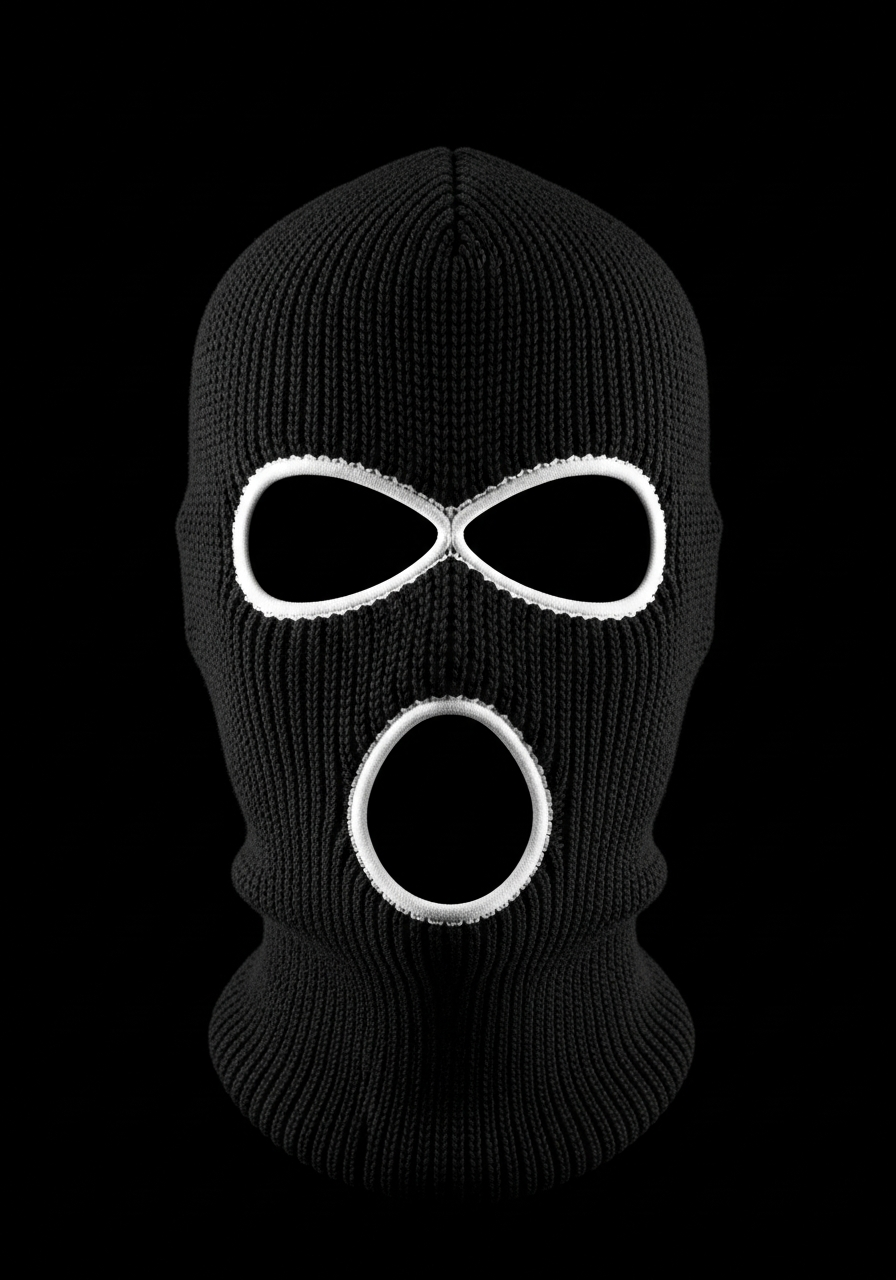
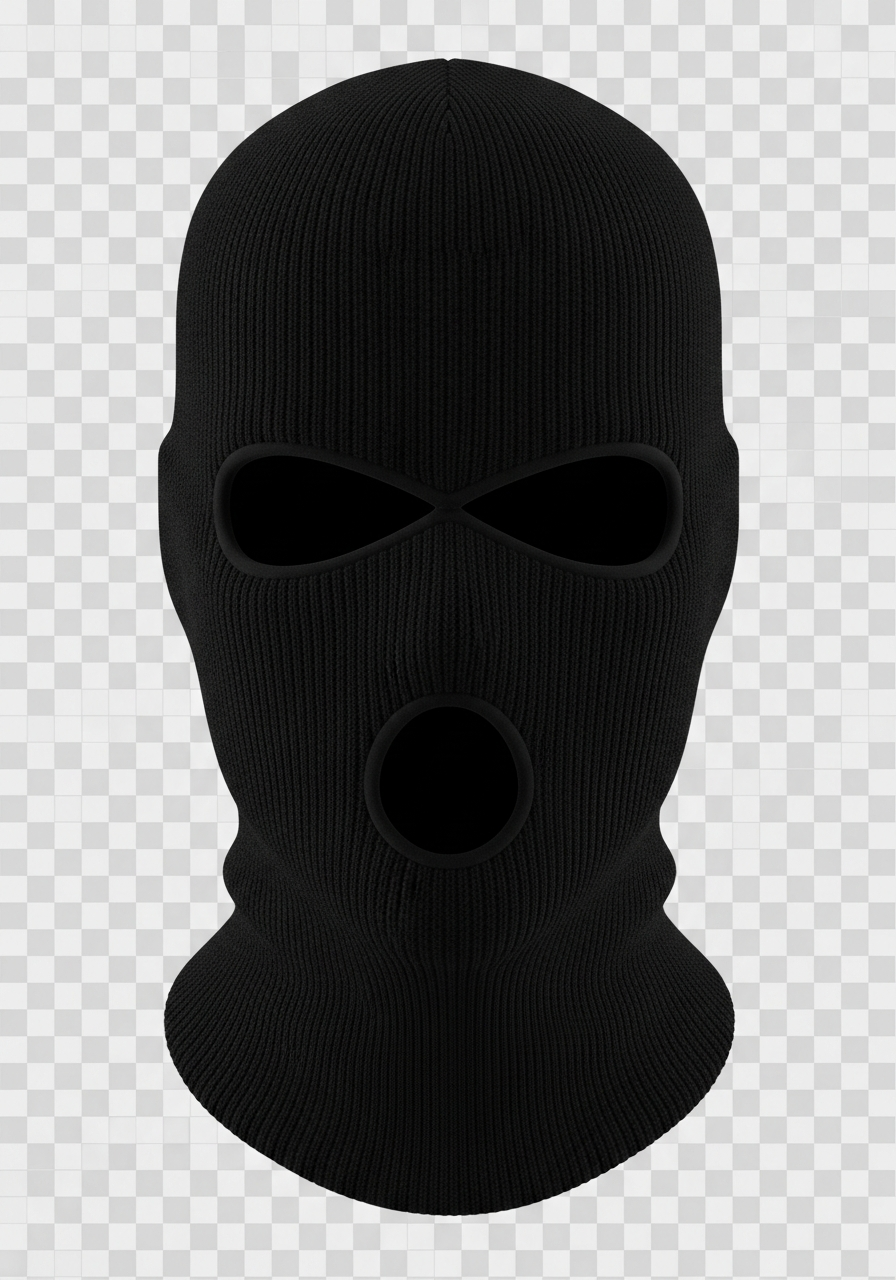
Improve AR filters with better proportioning and an opaque ski mask
Update AR filter rendering to use 'source-over' blend mode for the ski mask, making it opaque, and adjust scaling factors for all filters to improve face fitting.

Replit-Commit-Author: Agent
Replit-Commit-Session-Id: bb2b13c8-d9ab-4d72-9028-63e3fe84c47a
Replit-Commit-Checkpoint-Type: full_checkpoint
Replit-Commit-Event-Id: 98ca80ae-d9f9-422e-b6e9-1dc43fc0b701
Replit-Commit-Screenshot-Url: https://storage.googleapis.com/screenshot-production-us-central1/3f589d6a-16a0-4ee7-8d70-871b8ff5ffcc/bb2b13c8-d9ab-4d72-9028-63e3fe84c47a/F8LlbIX
Replit-Helium-Checkpoint-Created: true

diff --git a/js/ar-filters.js b/js/ar-filters.js
@@ -212,22 +212,22 @@ class ARFilterEngine {
 
         switch (this.activeFilter) {
             case 'ar-hiphop':
-                this._drawOverlayOnEyes(ctx, lm, w, h, 'ar-hiphop', { scaleW: 2.8, scaleH: 1.4, offsetY: 0 });
+                this._drawOverlayOnEyes(ctx, lm, w, h, 'ar-hiphop', { scaleW: 2.4, scaleH: 1.0, offsetY: -0.05 });
                 break;
             case 'ar-rock':
-                this._drawOverlayOnFace(ctx, lm, w, h, 'ar-rock', { scaleW: 1.3, scaleH: 1.5, offsetY: -0.05 });
+                this._drawOverlayOnFace(ctx, lm, w, h, 'ar-rock', { scaleW: 1.4, scaleH: 1.3, offsetY: 0 });
                 break;
             case 'ar-pop':
-                this._drawOverlayOnEyes(ctx, lm, w, h, 'ar-pop', { scaleW: 3.0, scaleH: 1.8, offsetY: -0.1 });
+                this._drawOverlayOnEyes(ctx, lm, w, h, 'ar-pop', { scaleW: 2.6, scaleH: 1.2, offsetY: -0.15 });
                 break;
             case 'ar-edm':
-                this._drawOverlayOnEyes(ctx, lm, w, h, 'ar-edm', { scaleW: 3.2, scaleH: 1.2, offsetY: 0.05 });
+                this._drawOverlayOnEyes(ctx, lm, w, h, 'ar-edm', { scaleW: 2.8, scaleH: 1.0, offsetY: 0 });
                 break;
             case 'ar-jazz':
-                this._drawOverlayOnFace(ctx, lm, w, h, 'ar-jazz', { scaleW: 1.2, scaleH: 1.0, offsetY: -0.15 });
+                this._drawOverlayOnFace(ctx, lm, w, h, 'ar-jazz', { scaleW: 1.3, scaleH: 1.1, offsetY: -0.1 });
                 break;
             case 'ar-skimask':
-                this._drawOverlayOnFace(ctx, lm, w, h, 'ar-skimask', { scaleW: 1.5, scaleH: 1.6, offsetY: -0.05 });
+                this._drawOverlayOnFace(ctx, lm, w, h, 'ar-skimask', { scaleW: 1.6, scaleH: 1.5, offsetY: 0, blendMode: 'source-over' });
                 break;
             default:
                 return false;
@@ -268,11 +268,12 @@ class ARFilterEngine {
         const drawH = drawW * imgAspect * (opts.scaleH || 1.0);
 
         const offsetYPx = eyeSpan * (opts.offsetY || 0);
+        const blendMode = opts.blendMode || 'screen';
 
         ctx.save();
         ctx.translate(eyesMidpoint.x, eyesMidpoint.y + offsetYPx);
         ctx.rotate(angle);
-        ctx.globalCompositeOperation = 'screen';
+        ctx.globalCompositeOperation = blendMode;
         ctx.drawImage(img, -drawW / 2, -drawH / 2, drawW, drawH);
         ctx.globalCompositeOperation = 'source-over';
         ctx.restore();
@@ -298,11 +299,12 @@ class ARFilterEngine {
         const drawW = faceWidth * (opts.scaleW || 1.2);
         const drawH = faceHeight * (opts.scaleH || 1.3);
         const offsetYPx = faceHeight * (opts.offsetY || 0);
+        const blendMode = opts.blendMode || 'screen';
 
         ctx.save();
         ctx.translate(faceCenter.x, faceCenter.y + offsetYPx);
         ctx.rotate(angle);
-        ctx.globalCompositeOperation = 'screen';
+        ctx.globalCompositeOperation = blendMode;
         ctx.drawImage(img, -drawW / 2, -drawH / 2, drawW, drawH);
         ctx.globalCompositeOperation = 'source-over';
         ctx.restore();
